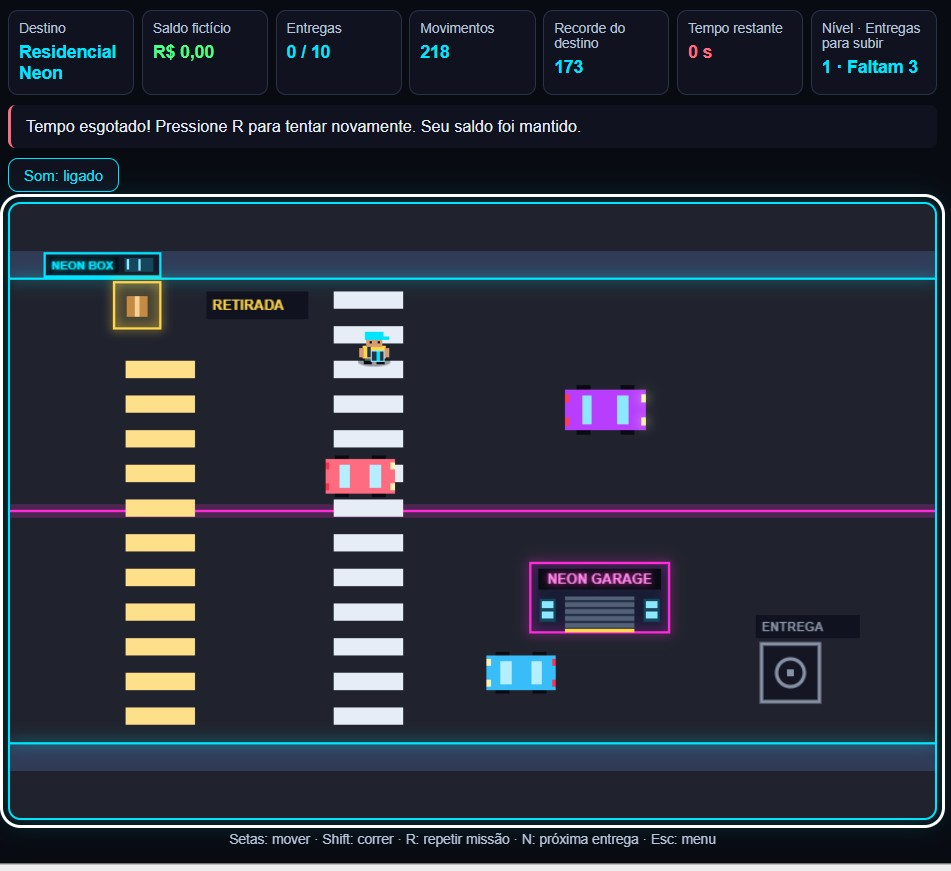
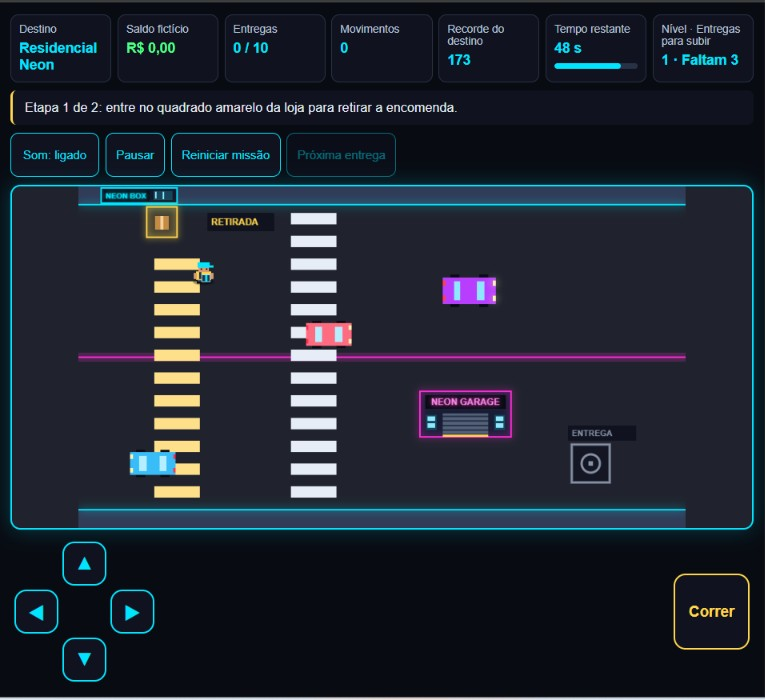
Conclui versão 1.0 do Cidade Neon e atualiza documentação

diff --git a/style.css b/style.css
@@ -651,3 +651,60 @@ body {
     font-size: 11px;
   }
 }
+
+#barraTempo {
+  display: block;
+  width: 100%;
+  height: 6px;
+  margin-top: 6px;
+  border: none;
+  border-radius: 999px;
+  overflow: hidden;
+  appearance: none;
+  -webkit-appearance: none;
+  background: #283246;
+  accent-color: #00e5ff;
+}
+
+#barraTempo::-webkit-progress-bar {
+  background: #283246;
+  border-radius: 999px;
+}
+
+#barraTempo::-webkit-progress-value {
+  background: #00e5ff;
+  border-radius: 999px;
+}
+
+#barraTempo::-moz-progress-bar {
+  background: #00e5ff;
+  border-radius: 999px;
+}
+
+#barraTempo.tempo-critico {
+  accent-color: #ff6b81;
+}
+
+#barraTempo.tempo-critico::-webkit-progress-value {
+  background: #ff6b81;
+}
+
+#barraTempo.tempo-critico::-moz-progress-bar {
+  background: #ff6b81;
+}
+
+#areaJogo .painel > div {
+  box-sizing: border-box;
+  min-width: 0;
+  overflow: hidden;
+}
+
+#areaJogo #barraTempo {
+  display: block;
+  box-sizing: border-box;
+  width: 100%;
+  max-width: 100%;
+  min-width: 0;
+  height: 6px;
+  margin: 6px 0 0;
+}

diff --git a/game.js b/game.js
@@ -365,6 +365,15 @@ function atualizarPainel() {
   painelRecorde.textContent = recorde === null ? "—" : recorde;
 
   painelTempo.textContent = Math.ceil(tempoRestante) + " s";
+  const barraTempo = document.getElementById("barraTempo");
+
+  barraTempo.max = duracaoMissao;
+  barraTempo.value = tempoRestante;
+  barraTempo.classList.toggle("tempo-critico", tempoRestante <= 10);
+  barraTempo.setAttribute(
+    "aria-valuetext",
+    Math.ceil(tempoRestante) + " segundos restantes",
+  );
   painelTempo.style.color = tempoRestante <= 10 ? "#ff6b81" : "#00e5ff";
 
   let mensagem;

diff --git a/index.html b/index.html
@@ -88,6 +88,13 @@
         <div>
           <span>Tempo restante</span>
           <strong id="painelTempo">60 s</strong>
+
+          <progress
+            id="barraTempo"
+            max="60"
+            value="60"
+            aria-label="Tempo restante da missão"
+          ></progress>
         </div>
 
         <div>
